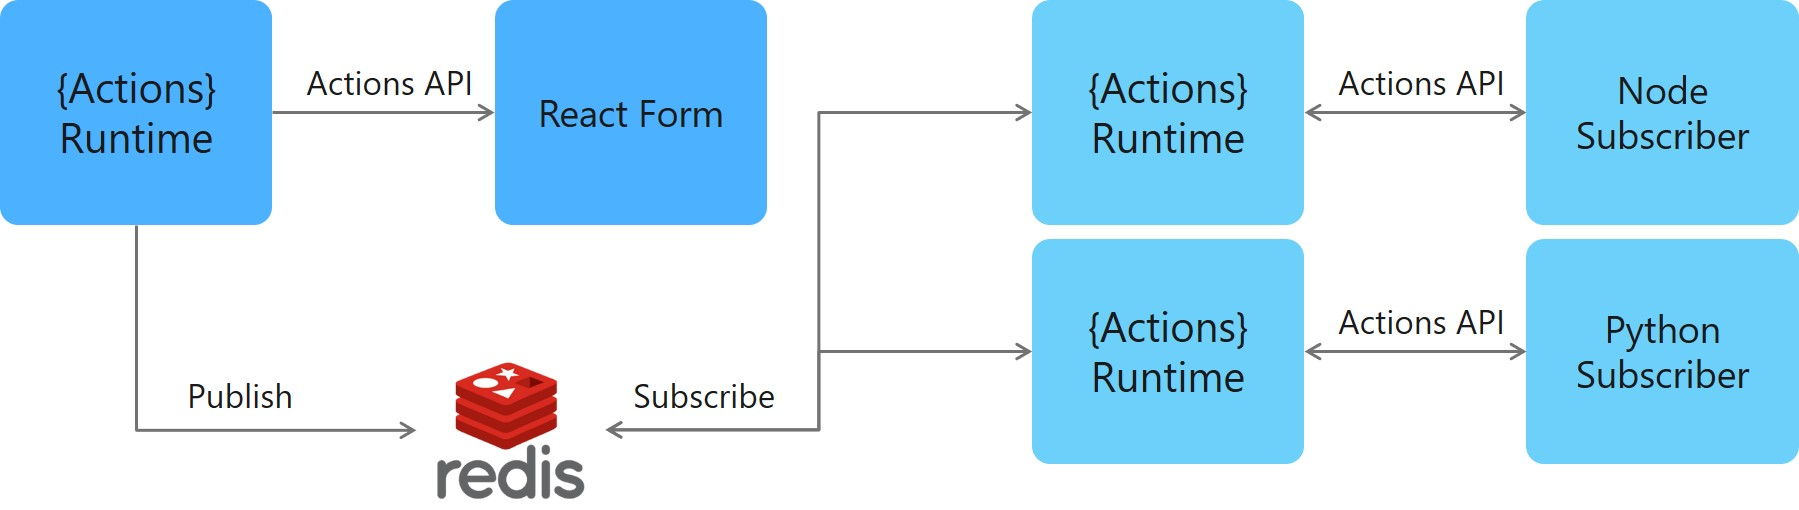
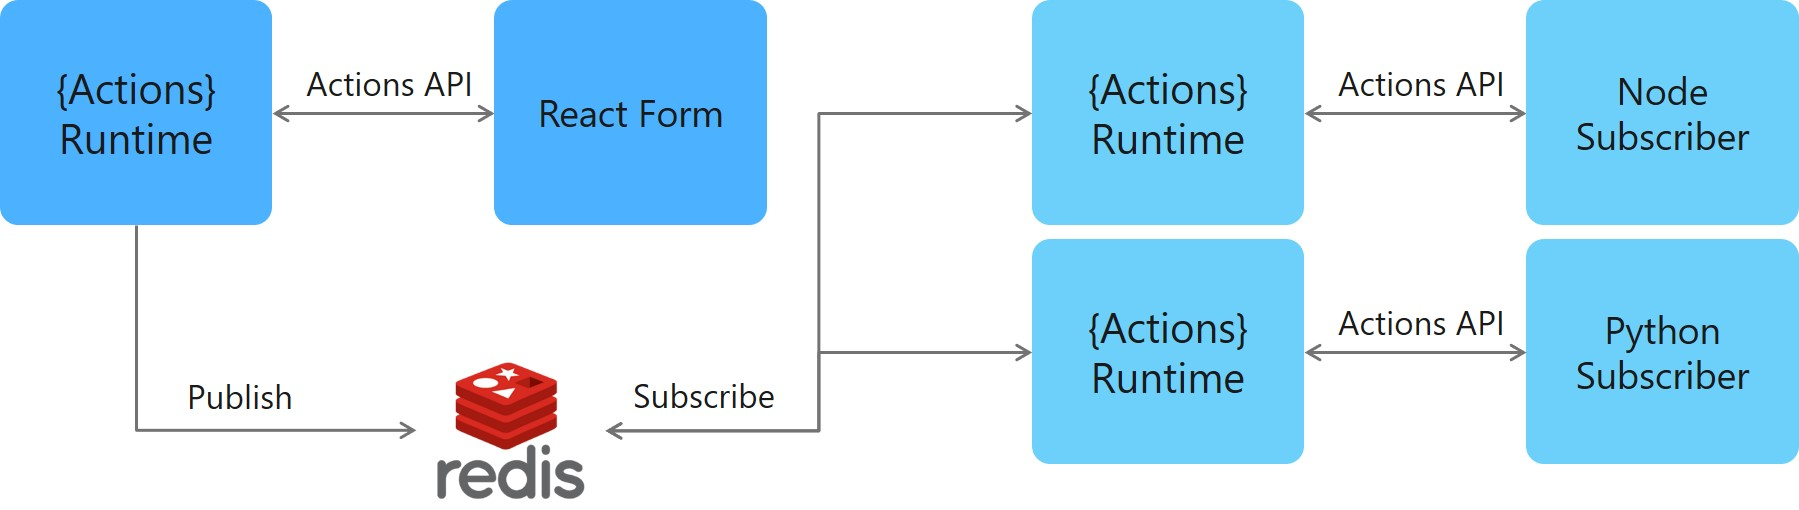
Minor pub-sub fixes (#264)
* Fixed arch diagram arrow

* Fixed title sizing

diff --git a/samples/pub-sub/README.md b/samples/pub-sub/README.md
@@ -179,11 +179,11 @@ def b_subscriber():
     return json.dumps({'success':True}), 200, {'ContentType':'application/json'} 
 ```
 
-### React Front-End
+### React Front End
 
 Our publisher is broken up into a client and a server:
 
-### Client
+#### Client
 
 Our client is a simple single page React application that was bootstrapped with [Create React App](<INSERTLINK>). The relevant client code sits in `react-form/client/src/MessageForm.js` where we present a form to our users. As our users update the form, we update React state with the latest aggregated JSON data. By default the data is set to:
 
@@ -206,7 +206,7 @@ Upon submission of the form, we send the aggregated JSON data to our server:
     });
 ```
 
-### Server
+#### Server
 
 Our server is a basic express application that exposes a POST endpoint: `/publish`. This takes the requests from our client and publishes them against Actions. We use `body-parser` to parse the JSON out of the incoming requests:
 
